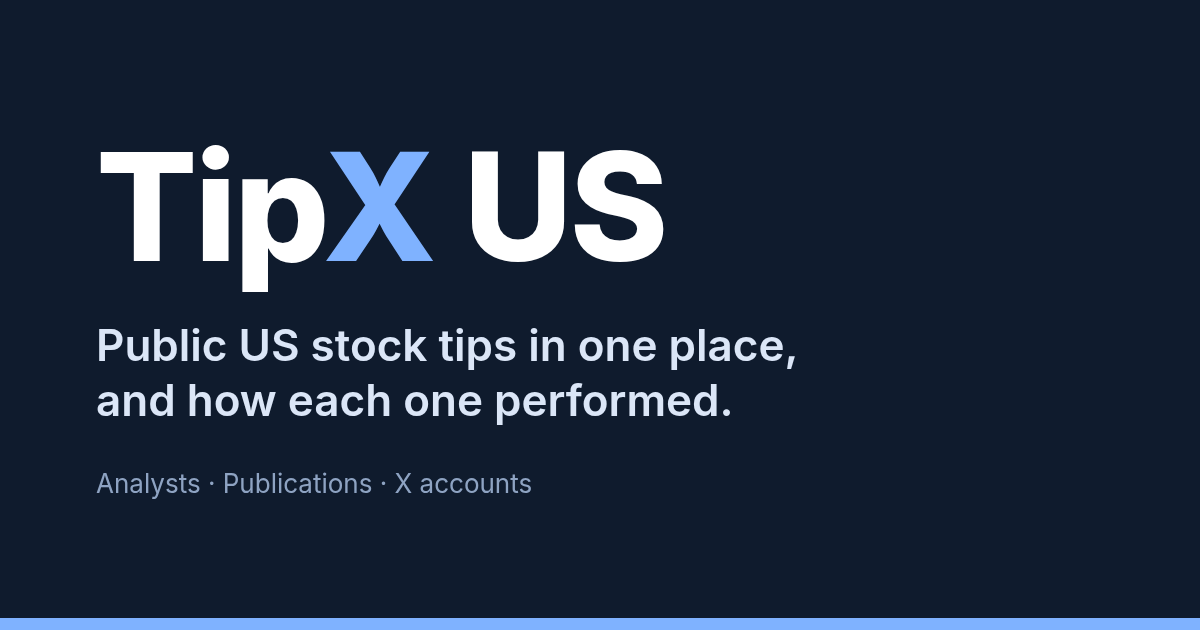
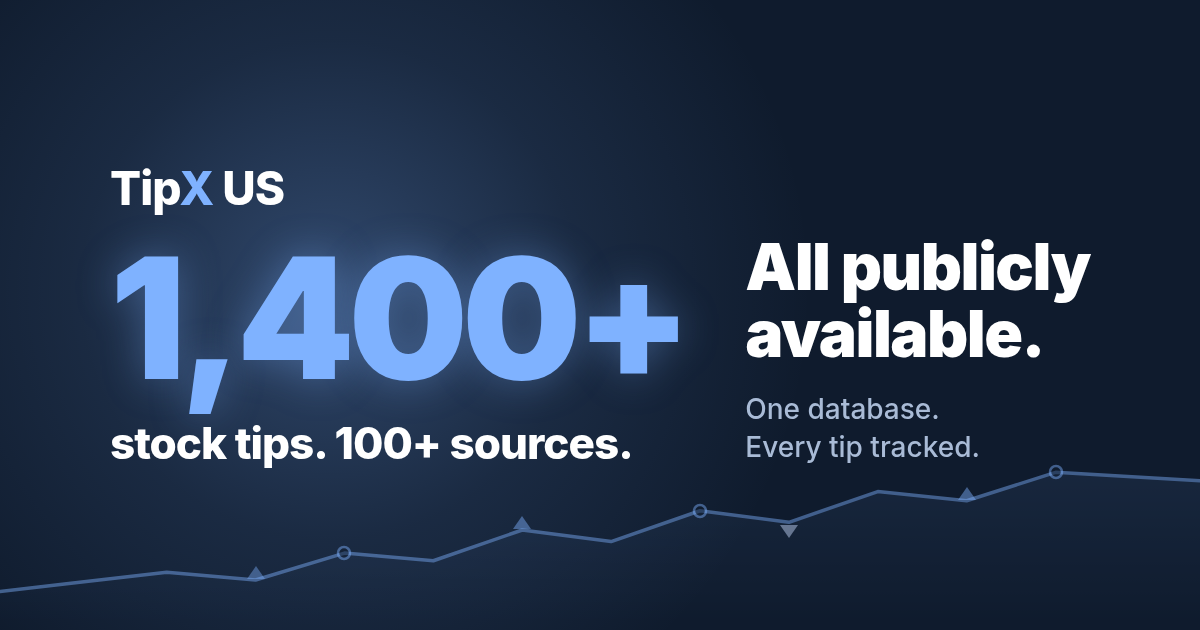
New link preview image (TipX US status design, 1200x630); cache-bust og:image ?v=3

diff --git a/index.html b/index.html
@@ -1,4 +1,4 @@
-<!DOCTYPE html><html lang="en"><head><meta charset="utf-8"><meta name="viewport" content="width=device-width,initial-scale=1"><title>TipX US: public stock tips in one place</title><meta property="og:title" content="TipX US"><meta property="og:description" content="Public US stock tips from 100+ sources in one place, and how each one performed."><meta property="og:url" content="https://shubh996.github.io/tipx-us/"><meta property="og:type" content="website"><meta property="og:site_name" content="TipX US"><meta property="og:image" content="https://shubh996.github.io/tipx-us/og-image.png?v=2"><meta property="og:image:width" content="1200"><meta property="og:image:height" content="630"><meta property="og:image:alt" content="TipX US: public US stock tips in one place"><meta name="twitter:card" content="summary_large_image"><meta name="twitter:title" content="TipX US"><meta name="twitter:description" content="Public US stock tips from 100+ sources in one place, and how each one performed."><meta name="twitter:image" content="https://shubh996.github.io/tipx-us/og-image.png?v=2"><script>window.goatcounter={no_onload:true}</script><script data-goatcounter="https://tipxus.goatcounter.com/count" async src="//gc.zgo.at/count.js"></script><link rel="icon" type="image/svg+xml" href="favicon.svg"><link rel="icon" type="image/png" sizes="32x32" href="favicon-32.png"><link rel="apple-touch-icon" href="apple-touch-icon.png"><meta name="description" content="Public US stock tips from 100+ sources in one place, and how each one performed."><style>
+<!DOCTYPE html><html lang="en"><head><meta charset="utf-8"><meta name="viewport" content="width=device-width,initial-scale=1"><title>TipX US: public stock tips in one place</title><meta property="og:title" content="TipX US"><meta property="og:description" content="Public US stock tips from 100+ sources in one place, and how each one performed."><meta property="og:url" content="https://shubh996.github.io/tipx-us/"><meta property="og:type" content="website"><meta property="og:site_name" content="TipX US"><meta property="og:image" content="https://shubh996.github.io/tipx-us/og-image.png?v=3"><meta property="og:image:width" content="1200"><meta property="og:image:height" content="630"><meta property="og:image:alt" content="TipX US: public US stock tips in one place"><meta name="twitter:card" content="summary_large_image"><meta name="twitter:title" content="TipX US"><meta name="twitter:description" content="Public US stock tips from 100+ sources in one place, and how each one performed."><meta name="twitter:image" content="https://shubh996.github.io/tipx-us/og-image.png?v=3"><script>window.goatcounter={no_onload:true}</script><script data-goatcounter="https://tipxus.goatcounter.com/count" async src="//gc.zgo.at/count.js"></script><link rel="icon" type="image/svg+xml" href="favicon.svg"><link rel="icon" type="image/png" sizes="32x32" href="favicon-32.png"><link rel="apple-touch-icon" href="apple-touch-icon.png"><meta name="description" content="Public US stock tips from 100+ sources in one place, and how each one performed."><style>
 :root{--ink:#0f1b2d;--muted:#5b6b7f;--line:#e3e8ef;--bg:#f6f8fb;--brand:#0b3d91;--pos:#0a7d4f;--neg:#b42318;--card:#fff}
 *{box-sizing:border-box}body{margin:0;font-family:-apple-system,"Segoe UI",Inter,Helvetica,Arial,sans-serif;color:var(--ink);background:var(--bg);font-size:15px;line-height:1.5}
 .banner{background:#fff4d6;border-bottom:1px solid #f0d58a;color:#6b4e00;text-align:center;padding:8px 12px;font-weight:600;font-size:13px;letter-spacing:.2px}
